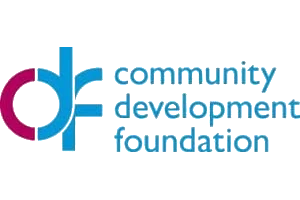
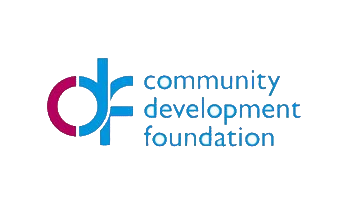
docs: 📝 updated information with correction

Changed region(s): [[0.0, 0.21, 1.0, 0.78]]

diff --git a/about.html b/about.html
@@ -7,7 +7,7 @@
     <link rel="preconnect" href="https://fonts.googleapis.com">
     <link rel="preconnect" href="https://fonts.gstatic.com" crossorigin>
     <link href="https://fonts.googleapis.com/css2?family=Poppins&display=swap" rel="stylesheet">
-    <link rel="icon" href="images/favicon.ico">
+    <link rel="icon" href="images/favicon.png" type="image/png">
     <link rel="manifest" href="manifest.json">
     <meta name="viewport" content="width=device-width, initial-scale=1.0">
     <meta name="description" content="St. Anselm's College Heritage and Historical Research Society">
@@ -25,16 +25,14 @@
             navigator.serviceWorker.register('serviceWorker.js').then(function(registration) {
                 console.log('ServiceWorker registration successful with scope: ', registration.scope);
             }).catch(function(err) {
-                console.log('ServiceWorker registration failed: ', err);
+                console.error('ServiceWorker registration failed: ', err);
             });
         }
     </script>
 </head>
 <body>
     <header>
-        <!--        Logo-->
         <img src="images/logo.webp" alt="logo" width="100px" height="100px">
-        <!--        Home, About, The Outwood Story, Outwood House, The History of St Anselm, More-->
         <nav>
             <ul>
                 <li><a href="index.html">Home</a></li>
@@ -120,9 +118,9 @@
             leaders have visited them. The family members were able
             to provide much detailed information about their
             ancestors. They very kindly loaned us a copy of the private
-            family history, “Records of the Family of Heape”, one of
-            only five, which had been researched by family members
-            and printed in 1904.
+            family history, “Records of the Family of Heape”, <s>one of
+            only five</s><a href="#footnote-1">[1]</a>, which had been 
+            researched by family members and printed in 1904.
         </p>
         <p>
             Contrary to what we originally understood, it has
@@ -164,17 +162,19 @@
             number of years to present in a compendium the consolidated
             story of all the users and usages of Outwood House.
         </p>
+        <p id="footnote-1">[1] Although the site previously stated that only five copies of the Heape family record book exist, 
+            <q>I believe that at least 20 or so were printed overall</q>, wrote <cite>Chris Lumsden, a Heape family descendant from Melbourne, Australia.</cite></p>
     </article>
     <footer>
-        <div>
-            <img src="/images/HLF.webp" alt="Heritage Lottery Fund" width="300" height="200">
-            <img src="images/CDF.webp" alt="Community Development Fund" width="300" height="200">
+        <div class="images">
+            <img src="/images/HLF.webp" alt="Heritage Lottery Fund" style="height: 200px; object-fit: contain;">
+            <img src="/images/CDF.webp" alt="Community Development Fund" style="height: 200px; object-fit: contain;">
         </div>
         <h2>
             St. Anselm's College Heritage and Historical Research Society
         </h2>
         <p>
-            &copy; Copyright 2022 St. Anselm's College Heritage and Historical Research Society
+            &copy; Copyright 2025 St. Anselm's College Heritage and Historical Research Society
         </p>
     </footer>
 </body>

diff --git a/index.html b/index.html
@@ -7,7 +7,7 @@
     <link rel="preconnect" href="https://fonts.googleapis.com">
     <link rel="preconnect" href="https://fonts.gstatic.com" crossorigin>
     <link href="https://fonts.googleapis.com/css2?family=Poppins&display=swap" rel="stylesheet">
-    <link rel="icon" href="images/favicon.ico" type="image/x-icon">
+    <link rel="icon" href="images/favicon.png" type="image/png">
     <link rel="manifest" href="manifest.json">
     <meta name="viewport" content="width=device-width, initial-scale=1.0">
     <meta name="description" content="Showcase of St. Anselm's College's Heritage and Historical Research Society's Outwood House Research and Tour">
@@ -25,16 +25,14 @@
             navigator.serviceWorker.register('serviceWorker.js').then(function(registration) {
                 console.log('ServiceWorker registration successful with scope: ', registration.scope);
             }).catch(function(err) {
-                console.log('ServiceWorker registration failed: ', err);
+                console.error('ServiceWorker registration failed: ', err);
             });
         }
     </script>
 </head>
 <body>
     <header>
-<!--        Logo-->
         <img src="images/logo.webp" alt="logo" width="100px" height="100px">
-<!--        Home, About, The Outwood Story, Outwood House, The History of St Anselm, More-->
         <h1>
             St. Anselm's College Heritage and Historical Research Society
         </h1>
@@ -73,15 +71,15 @@
         </a>
     </article>
     <footer>
-        <div>
-            <img src="images/HLF.webp" alt="Heritage Lottery Fund" width="300" height="200">
-            <img src="images/CDF.webp" alt="Community Development Fund" width="300" height="200">
+        <div class="images">
+            <img src="/images/HLF.webp" alt="Heritage Lottery Fund" style="height: 200px; object-fit: contain;">
+            <img src="/images/CDF.webp" alt="Community Development Fund" style="height: 200px; object-fit: contain;">
         </div>
         <h3>
             St. Anselm's College Heritage and Historical Research Society
         </h3>
         <p>
-            &copy; Copyright 2022 St. Anselm's College Heritage and Historical Research Society
+            &copy; Copyright 2025 St. Anselm's College Heritage and Historical Research Society
         </p>
     </footer>
 </body>

diff --git a/phasetwo.html b/phasetwo.html
@@ -7,7 +7,7 @@
     <link rel="preconnect" href="https://fonts.googleapis.com">
     <link rel="preconnect" href="https://fonts.gstatic.com" crossorigin>
     <link href="https://fonts.googleapis.com/css2?family=Poppins&display=swap" rel="stylesheet">
-    <link rel="icon" href="images/favicon.ico" type="image/x-icon">
+    <link rel="icon" href="images/favicon.png" type="image/png">
     <link rel="manifest" href="manifest.json">
     <meta name="viewport" content="width=device-width, initial-scale=1.0">
     <meta name="description" content="St. Anselm's College Heritage and Historical Research Society">
@@ -25,16 +25,14 @@
             navigator.serviceWorker.register('serviceWorker.js').then(function(registration) {
                 console.log('ServiceWorker registration successful with scope: ', registration.scope);
             }).catch(function(err) {
-                console.log('ServiceWorker registration failed: ', err);
+                console.error('ServiceWorker registration failed: ', err);
             });
         }
     </script>
 </head>
 <body>
     <header>
-        <!--        Logo-->
         <img src="images/logo.webp" alt="logo" width="100px" height="100px">
-        <!--        Home, About, The Outwood Story, Outwood House, The History of St Anselm, More-->
         <nav>
             <ul>
                 <li><a href="index.html">Home</a></li>
@@ -88,15 +86,15 @@
 
     </article>
     <footer>
-        <div>
-            <img src="/images/HLF.webp" alt="Heritage Lottery Fund" width="300" height="200">
-            <img src="images/CDF.webp" alt="Community Development Fund" width="300" height="200">
+        <div class="images">
+            <img src="/images/HLF.webp" alt="Heritage Lottery Fund" style="height: 200px; object-fit: contain;">
+            <img src="/images/CDF.webp" alt="Community Development Fund" style="height: 200px; object-fit: contain;">
         </div>
         <h2>
             St. Anselm's College Heritage and Historical Research Society
         </h2>
         <p>
-            &copy; Copyright 2022 St. Anselm's College Heritage and Historical Research Society
+            &copy; Copyright 2025 St. Anselm's College Heritage and Historical Research Society
         </p>
     </footer>
 </body>

diff --git a/thestoryofoutwood.html b/thestoryofoutwood.html
@@ -7,7 +7,7 @@
     <link rel="preconnect" href="https://fonts.googleapis.com">
     <link rel="preconnect" href="https://fonts.gstatic.com" crossorigin>
     <link href="https://fonts.googleapis.com/css2?family=Poppins&display=swap" rel="stylesheet">
-    <link rel="icon" href="images/favicon.ico">
+    <link rel="icon" href="images/favicon.png" type="image/png">
     <link rel="manifest" href="manifest.json">
     <meta name="viewport" content="width=device-width, initial-scale=1.0">
     <meta name="description" content="St. Anselm's College Heritage and Historical Research Society">
@@ -25,16 +25,14 @@
             navigator.serviceWorker.register('serviceWorker.js').then(function(registration) {
                 console.log('ServiceWorker registration successful with scope: ', registration.scope);
             }).catch(function(err) {
-                console.log('ServiceWorker registration failed: ', err);
+                console.error('ServiceWorker registration failed: ', err);
             });
         }
     </script>
 </head>
 <body>
     <header>
-        <!--        Logo-->
         <img src="images/logo.webp" alt="logo" width="100px" height="100px">
-        <!--        Home, About, The Outwood Story, Outwood House, The History of St Anselm, More-->
         <nav>
             <ul>
                 <li><a href="index.html">Home</a></li>
@@ -419,15 +417,15 @@
         </video>
     </article>
     <footer>
-        <div>
-            <img src="/images/HLF.webp" alt="Heritage Lottery Fund" width="300" height="200">
-            <img src="images/CDF.webp" alt="Community Development Fund" width="300" height="200">
+        <div class="images">
+            <img src="/images/HLF.webp" alt="Heritage Lottery Fund" style="height: 200px; object-fit: contain;">
+            <img src="/images/CDF.webp" alt="Community Development Fund" style="height: 200px; object-fit: contain;">
         </div>
         <h2>
             St. Anselm's College Heritage and Historical Research Society
         </h2>
         <p>
-            &copy; Copyright 2022 St. Anselm's College Heritage and Historical Research Society
+            &copy; Copyright 2025 St. Anselm's College Heritage and Historical Research Society
         </p>
     </footer>
 </body>

diff --git a/historyof.html b/historyof.html
@@ -7,7 +7,7 @@
     <link rel="preconnect" href="https://fonts.googleapis.com">
     <link rel="preconnect" href="https://fonts.gstatic.com" crossorigin>
     <link href="https://fonts.googleapis.com/css2?family=Poppins&display=swap" rel="stylesheet">
-    <link rel="icon" href="images/favicon.ico">
+    <link rel="icon" href="images/favicon.png" type="image/png">
     <link rel="manifest" href="manifest.json">
     <meta name="viewport" content="width=device-width, initial-scale=1.0">
     <meta name="description" content="St. Anselm's College Heritage and Historical Research Society">
@@ -25,16 +25,14 @@
             navigator.serviceWorker.register('serviceWorker.js').then(function(registration) {
                 console.log('ServiceWorker registration successful with scope: ', registration.scope);
             }).catch(function(err) {
-                console.log('ServiceWorker registration failed: ', err);
+                console.error('ServiceWorker registration failed: ', err);
             });
         }
     </script>
 </head>
 <body>
     <header>
-        <!--        Logo-->
         <img src="images/logo.webp" alt="logo" width="100px" height="100px">
-        <!--        Home, About, The Outwood Story, Outwood House, The History of St Anselm, More-->
         <nav>
             <ul>
                 <li><a href="index.html">Home</a></li>
@@ -524,15 +522,15 @@
         </p>
     </article>
     <footer>
-        <div>
-            <img src="/images/HLF.webp" alt="Heritage Lottery Fund" width="300" height="200">
-            <img src="images/CDF.webp" alt="Community Development Fund" width="300" height="200">
+        <div class="images">
+            <img src="/images/HLF.webp" alt="Heritage Lottery Fund" style="height: 200px; object-fit: contain;">
+            <img src="/images/CDF.webp" alt="Community Development Fund" style="height: 200px; object-fit: contain;">
         </div>
         <h2>
             St. Anselm's College Heritage and Historical Research Society
         </h2>
         <p>
-            &copy; Copyright 2022 St. Anselm's College Heritage and Historical Research Society
+            &copy; Copyright 2025 St. Anselm's College Heritage and Historical Research Society
         </p>
     </footer>
 </body>

diff --git a/contact.html b/contact.html
@@ -7,7 +7,7 @@
     <link rel="preconnect" href="https://fonts.googleapis.com">
     <link rel="preconnect" href="https://fonts.gstatic.com" crossorigin>
     <link href="https://fonts.googleapis.com/css2?family=Poppins&display=swap" rel="stylesheet">
-    <link rel="icon" href="images/favicon.ico">
+    <link rel="icon" href="images/favicon.png" type="image/png">
     <link rel="manifest" href="manifest.json">
     <meta name="viewport" content="width=device-width, initial-scale=1.0">
     <meta name="description" content="St. Anselm's College Heritage and Historical Research Society">
@@ -25,16 +25,14 @@
             navigator.serviceWorker.register('serviceWorker.js').then(function(registration) {
                 console.log('ServiceWorker registration successful with scope: ', registration.scope);
             }).catch(function(err) {
-                console.log('ServiceWorker registration failed: ', err);
+                console.error('ServiceWorker registration failed: ', err);
             });
         }
     </script>
 </head>
 <body>
     <header>
-        <!--        Logo-->
         <img src="images/logo.webp" alt="logo" width="100px" height="100px">
-        <!--        Home, About, The Outwood Story, Outwood House, The History of St Anselm, More-->
         <nav>
             <ul>
                 <li><a href="index.html">Home</a></li>
@@ -53,15 +51,15 @@
         </p>
     </article>
     <footer>
-        <div>
-            <img src="/images/HLF.webp" alt="Heritage Lottery Fund" width="300" height="200">
-            <img src="images/CDF.webp" alt="Community Development Fund" width="300" height="200">
+        <div class="images">
+            <img src="/images/HLF.webp" alt="Heritage Lottery Fund" style="height: 200px; object-fit: contain;">
+            <img src="/images/CDF.webp" alt="Community Development Fund" style="height: 200px; object-fit: contain;">
         </div>
         <h2>
             St. Anselm's College Heritage and Historical Research Society
         </h2>
         <p>
-            &copy; Copyright 2022 St. Anselm's College Heritage and Historical Research Society
+            &copy; Copyright 2025 St. Anselm's College Heritage and Historical Research Society
         </p>
     </footer>
 </body>
